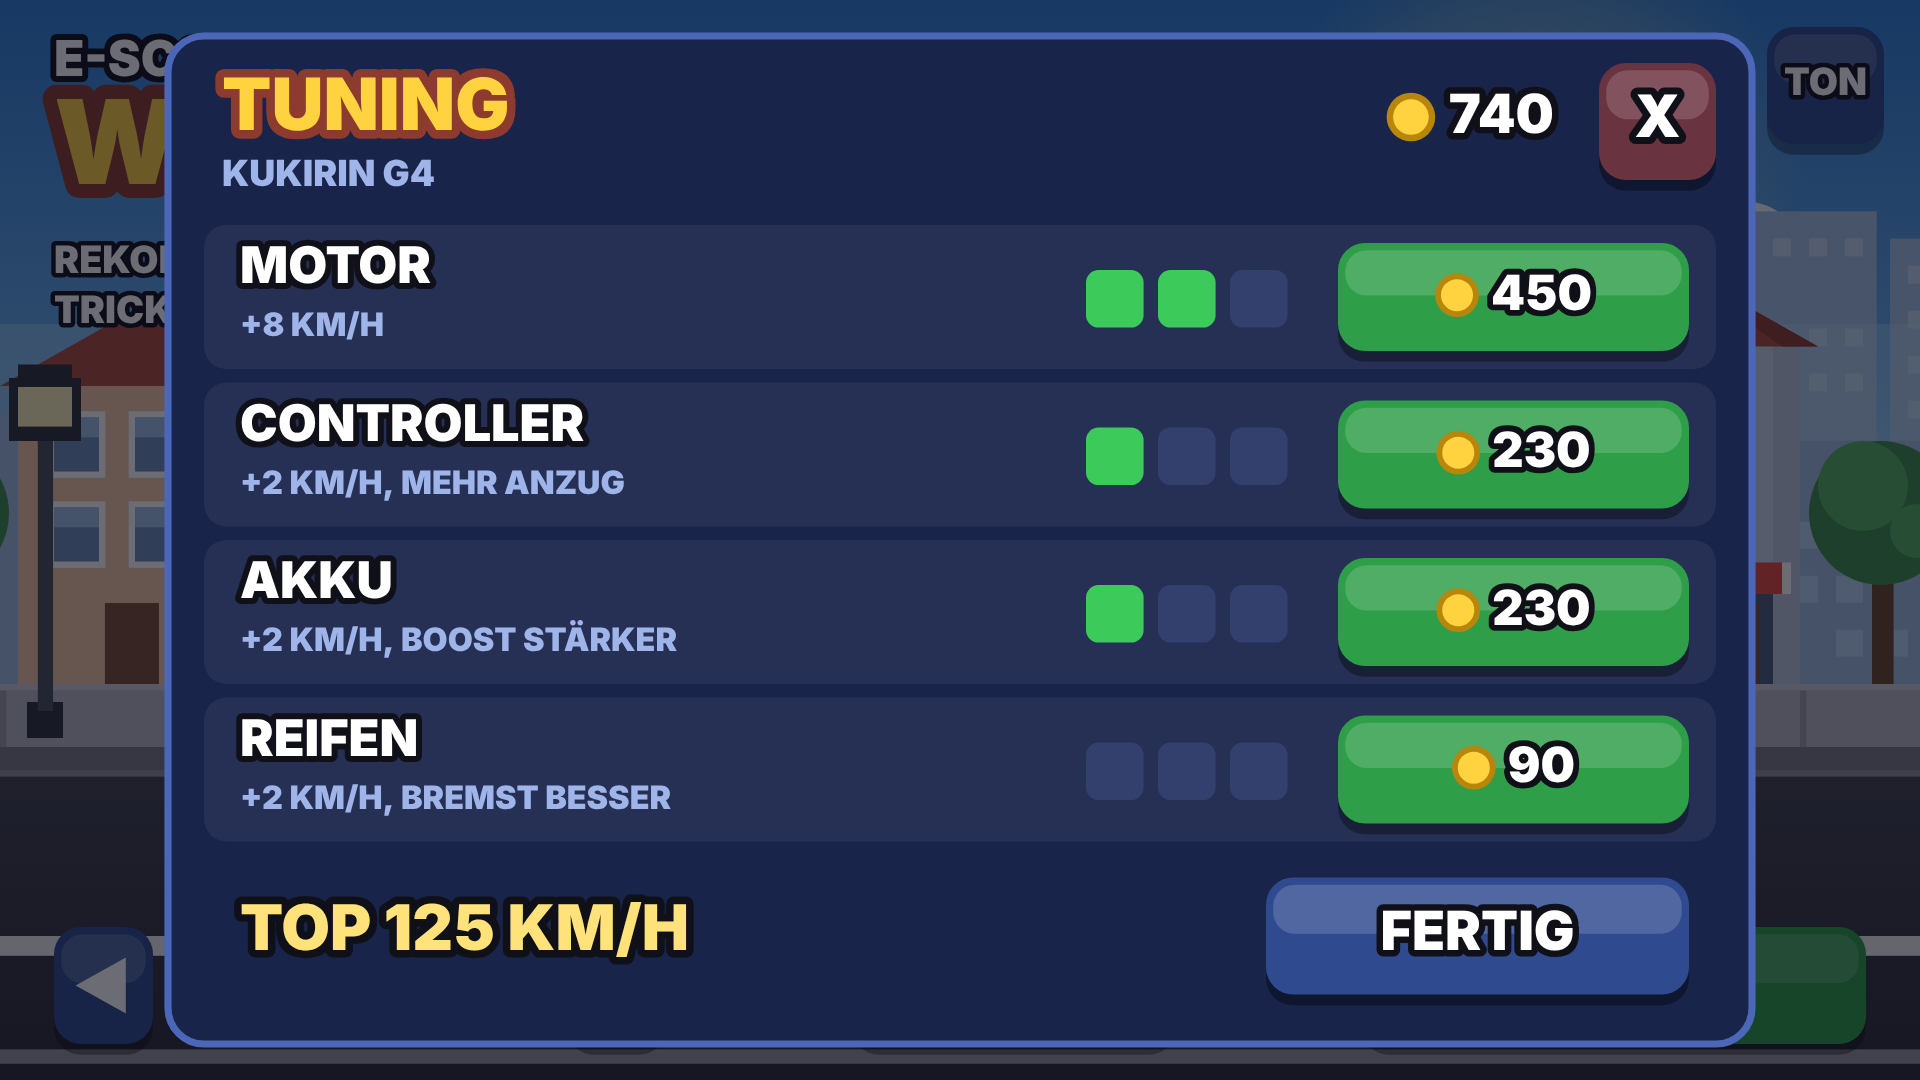
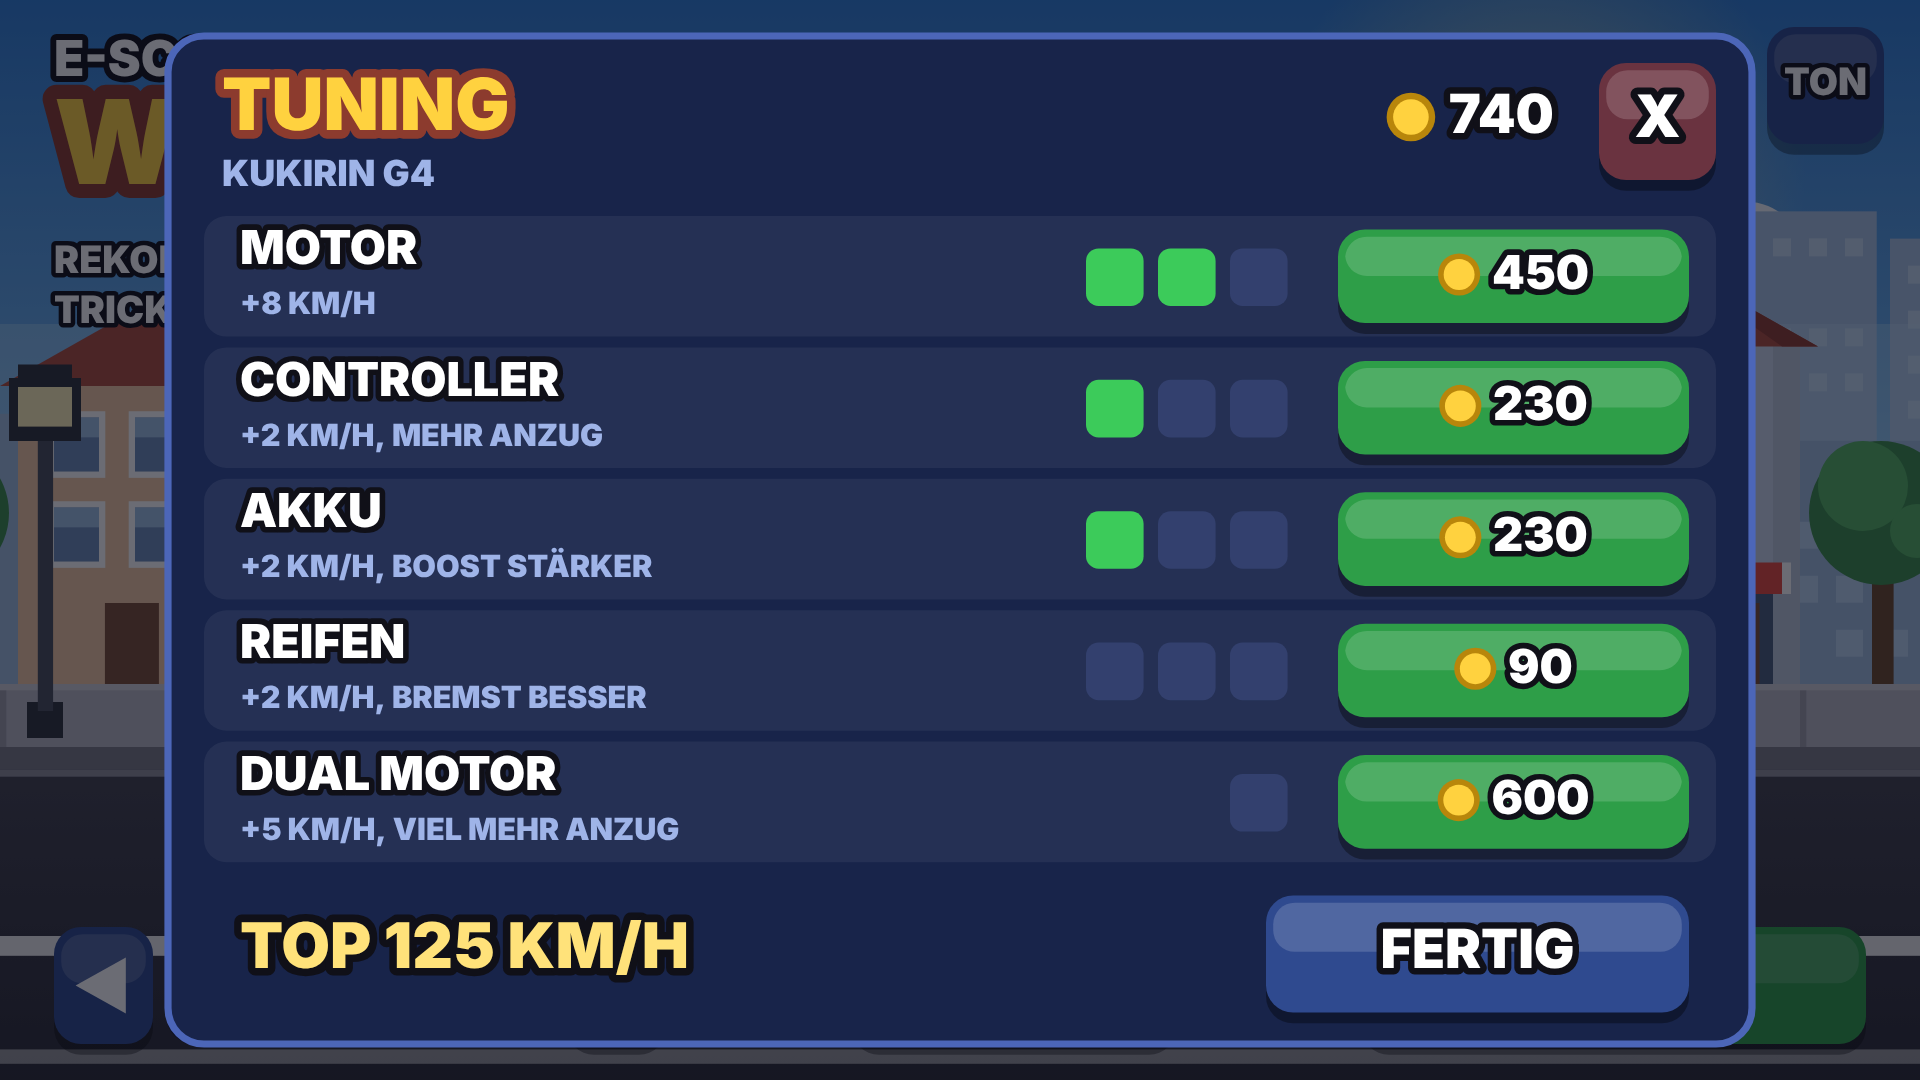
Handy-Version: Dual-Motor im Tuning, Scooter ziehen verschieden stark
- Dual-Motor als Tuning-Teil für Ninebot und Kukirin (+5 km/h, +2,5 m/s²,
  mehr Kraft bei hohem Tempo); der Dualtron hat ihn ab Werk
- Anzug ohne Tuning: Ninebot 6,0 / Kukirin 7,5 / Dualtron 10,5 m/s²
- Vorderrad zeigt den zweiten Motor

Claude-Session: https://claude.ai/code/session_01Sb8gd8WMWDHa6kn2fSYihm

Changed region(s): [[0.5625, 0.2139, 0.9062, 0.9472], [0.125, 0.1833, 0.375, 0.7944], [0.125, 0.825, 0.375, 0.9167]]

diff --git a/handy/www/game.js b/handy/www/game.js
@@ -31,20 +31,27 @@
   // SCOOTER und TUNING
   // ------------------------------------------------------------------
   // name = so heißt der Scooter im Spiel, kmh = Höchstgeschwindigkeit ohne Tuning,
-  // price = Preis in Münzen,
+  // accel = Beschleunigung beim Anfahren (m/s², das Original hat 6.0),
+  // dual = hat schon ab Werk zwei Motoren, price = Preis in Münzen,
   // gain = km/h pro Motor-Stufe, cost = Tuning-Teile sind so viel mal teurer
   const SCOOTERS = [
-    { name: 'NINEBOT MAX G3', kmh: 80, price: 0, gain: 5, cost: 1, r: 5.0, wb: 26, dy: 0, color: 0 },
-    { name: 'KUKIRIN G4', kmh: 105, price: 300, gain: 8, cost: 1.5, r: 5.6, wb: 27, dy: 0.6, color: 9 },
-    { name: 'DUALTRON X LIMITED', kmh: 125, price: 1200, gain: 12, cost: 2.5, r: 6.6, wb: 30, dy: 1.5, color: 3 },
+    { name: 'NINEBOT MAX G3', kmh: 80, accel: 6.0, dual: false, price: 0, gain: 5, cost: 1, r: 5.0, wb: 26, dy: 0, color: 0 },
+    { name: 'KUKIRIN G4', kmh: 105, accel: 7.5, dual: false, price: 300, gain: 8, cost: 1.5, r: 5.6, wb: 27, dy: 0.6, color: 9 },
+    { name: 'DUALTRON X LIMITED', kmh: 125, accel: 10.5, dual: true, price: 1200, gain: 12, cost: 2.5, r: 6.6, wb: 30, dy: 1.5, color: 3 },
   ];
   const PARTS = [
     { name: 'MOTOR', info: g => '+' + g + ' KM/H' },
     { name: 'CONTROLLER', info: () => '+2 KM/H, MEHR ANZUG' },
     { name: 'AKKU', info: () => '+2 KM/H, BOOST STÄRKER' },
     { name: 'REIFEN', info: () => '+2 KM/H, BREMST BESSER' },
+    { name: 'DUAL MOTOR', max: 1, info: () => '+5 KM/H, VIEL MEHR ANZUG' },
   ];
+  const DUAL = 4;                         // Nummer vom Dual-Motor in PARTS
+  const DUAL_PRICE = 400;                 // Preis vom zweiten Motor (mal "cost" vom Scooter)
+  const DUAL_ACCEL = 2.5;                 // so viel mehr Beschleunigung bringt er (m/s²)
+  const DUAL_POWER = 1.6;                 // und so viel mal mehr Kraft bei hohem Tempo
   const PART_LEVELS = 3;
+  const levels = k => PARTS[k].max || PART_LEVELS;
   const PART_PRICE = [60, 150, 300];      // Preis für Stufe 1, 2, 3 (mal "cost" vom Scooter)
   const COIN_PER_M = 2;                   // Münzen pro Meter Wheelie (Trick-Punkte kommen dazu)
 
@@ -112,10 +119,11 @@
       if (d.color && d.color[i] >= 0 && d.color[i] < COLORS.length) store.color[i] = floor(d.color[i]);
       PARTS.forEach((p, k) => {
         const v = d.tune && d.tune[i] && d.tune[i][k];
-        if (v >= 0 && v <= PART_LEVELS) store.tune[i][k] = floor(v);
+        if (v >= 0 && v <= levels(k)) store.tune[i][k] = floor(v);
       });
     });
   } catch (e) { /* kein Speicher: dann eben ohne */ }
+  SCOOTERS.forEach((s, i) => { if (s.dual) store.tune[i][DUAL] = 1; });   // ab Werk eingebaut
   const m = /[?&]coins=(\d+)/.exec(location.search);      // zum Testen: ?coins=5000
   if (m) store.coins = +m[1];
   function saveStore() {
@@ -126,15 +134,16 @@
   const car = { vmax: VMAX0, kmh: MAX_KMH, accel: ACCEL, power: POWER, boost: BOOST_ACCEL, brake: BRAKE };
   function topSpeed(i) {
     const t = store.tune[i];
-    return SCOOTERS[i].kmh + SCOOTERS[i].gain * t[0] + 2 * (t[1] + t[2] + t[3]);
+    return SCOOTERS[i].kmh + SCOOTERS[i].gain * t[0] + 2 * (t[1] + t[2] + t[3]) +
+      (SCOOTERS[i].dual ? 0 : 5 * t[DUAL]);
   }
   function applyTuning() {
-    const t = store.tune[store.scooter];
+    const t = store.tune[store.scooter], mdl = SCOOTERS[store.scooter];
     car.kmh = topSpeed(store.scooter);
     car.vmax = car.kmh / 3.6;
     const k = car.kmh / MAX_KMH;
-    car.power = POWER * k * k * k;        // genug Kraft, um das neue Tempo auch zu erreichen
-    car.accel = ACCEL + 0.8 * t[1];
+    car.power = POWER * k * k * k * (t[DUAL] ? DUAL_POWER : 1);   // genug Kraft für das neue Tempo
+    car.accel = mdl.accel + 0.8 * t[1] + (t[DUAL] && !mdl.dual ? DUAL_ACCEL : 0);
     car.boost = BOOST_ACCEL + 2.0 * t[2];
     car.brake = BRAKE + 1.0 * t[3];
   }
@@ -396,7 +405,7 @@
     return { S, hip, cp, sp, th, psi: th * 180 / PI * lean + A[2] + (B[2] - A[2]) * f };
   }
 
-  function wheel(p, r, rot, kind, col) {
+  function wheel(p, r, rot, kind, col, motor) {
     // kind: 0 normal, 1 Stollen (Gelände), 2 extra breit
     circ(p, r, '#17171c');
     if (kind === 1) {
@@ -416,7 +425,8 @@
       ctx.lineTo(p[0] + cos(a) * ri, p[1] + sin(a) * ri);
     }
     ctx.stroke();
-    circ(p, r * 0.2, '#17171c');
+    if (motor) { circ(p, r * 0.36, '#3a3b44'); circ(p, r * 0.27, '#17171c'); circ(p, r * 0.1, '#a8aeb6'); }
+    else circ(p, r * 0.2, '#17171c');
     ctx.strokeStyle = 'rgba(255,255,255,0.13)'; ctx.lineWidth = 0.6;     // Glanz auf dem Reifen
     ctx.beginPath(); ctx.arc(p[0], p[1], r - 0.8, -2.4, -1.2); ctx.stroke();
   }
@@ -428,13 +438,13 @@
     ctx.beginPath(); ctx.arc(p[0], p[1], r + 1.5, -(rad(a1) + th), -(rad(a0) + th)); ctx.stroke();
   }
 
-  function drawScooter(model, S, th, col, rotF, rotR) {
+  function drawScooter(model, S, th, col, rotF, rotR, dual) {
     const c = hex(col), cd = shade(col, -0.3), cl = shade(col, 0.35);
     const D = '#17171c', D2 = '#2a2b33', M = '#a8aeb6', r = model.r, wb = model.wb;
     if (model === SCOOTERS[0]) {
       // --- Ninebot Max G3: schlank, Pendler-Scooter ---
-      wheel(S(0, 0), r, rotR, 0, c);
-      wheel(S(wb, 0), r, rotF, 0, c);
+      wheel(S(0, 0), r, rotR, 0, c, true);
+      wheel(S(wb, 0), r, rotF, 0, c, dual);
       fender(S, th, 0, r, 35, 150, D2);
       circ(S(-5.4, 3.6), 0.9, '#ff3b30');                       // Rücklicht
       fender(S, th, wb, r, 40, 140, D2);
@@ -452,8 +462,8 @@
       // --- Kukirin G4: kräftig, Gelände-Reifen, Federung ---
       seg(S(0, 0), S(5, 0.2), 2.6, D2);                         // Schwinge hinten
       seg(S(wb, 0), S(22.4, 2.6), 2.6, D2);                     // Schwinge vorn
-      wheel(S(0, 0), r, rotR, 1, c);
-      wheel(S(wb, 0), r, rotF, 1, c);
+      wheel(S(0, 0), r, rotR, 1, c, true);
+      wheel(S(wb, 0), r, rotF, 1, c, dual);
       fender(S, th, 0, r, 50, 135, D);
       fender(S, th, wb, r, 45, 140, D);
       seg(S(25.4, 1.6), S(23.4, 7.6), 1.9, '#e8322b');          // Feder vorn
@@ -475,8 +485,8 @@
       // --- Dualtron X Limited: riesig, doppelte Lenkstange, fette Reifen ---
       seg(S(0, 0), S(6, 1.2), 3.6, D2);                         // Schwingen
       seg(S(wb, 0), S(23.4, 1.4), 3.6, D2);
-      wheel(S(0, 0), r, rotR, 2, c);
-      wheel(S(wb, 0), r, rotF, 2, c);
+      wheel(S(0, 0), r, rotR, 2, c, true);
+      wheel(S(wb, 0), r, rotF, 2, c, dual);
       fender(S, th, wb, r, 55, 135, D);
       seg(S(27.6, 1.6), S(24.6, 8.4), 2.2, '#ffc83d');          // Federbein vorn
       seg(S(27.6, 1.6), S(24.6, 8.4), 0.7, '#fff3b8');
@@ -568,7 +578,7 @@
     const model = o.model, g = body(o.th, o.pose, o.lean, model.dy);
     ctx.save();
     ctx.translate(x, y);
-    drawScooter(model, g.S, o.th, o.col, o.rotF, o.rotR);
+    drawScooter(model, g.S, o.th, o.col, o.rotF, o.rotR, o.dual);
     drawLeg(g, model, false);
     if (o.swing !== null) drawSwing(g.hip, o.swing); else drawLeg(g, model, true);
     const sh = drawTorso(g.hip, g.psi, o.col);
@@ -1017,11 +1027,13 @@
       play(SND_OFF);
     }
   }
-  function partPrice(i, level) { return Math.round(PART_PRICE[level] * SCOOTERS[i].cost / 10) * 10; }
+  function partPrice(i, level, k) {
+    return Math.round((k === DUAL ? DUAL_PRICE : PART_PRICE[level]) * SCOOTERS[i].cost / 10) * 10;
+  }
   function buyPart(k) {
     const i = store.scooter, lv = store.tune[i][k];
-    if (lv >= PART_LEVELS) return;
-    const p = partPrice(i, lv);
+    if (lv >= levels(k)) return;
+    const p = partPrice(i, lv, k);
     if (store.coins < p) { toast('ZU WENIG MÜNZEN'); play(SND_OFF); return; }
     store.coins -= p;
     store.tune[i][k] = lv + 1;
@@ -1124,22 +1136,23 @@
       return;
     }
     for (let k = 0; k < PARTS.length; k++) {
-      const y = py + 21 + k * 17.5, lv = store.tune[i][k], p = PARTS[k];
-      ctx.fillStyle = 'rgba(255,255,255,0.06)'; rrect(px + 4, y, pw - 8, 16, 2.5); ctx.fill();
-      text(p.name, px + 8, y + 2, 5.6, '#ffffff', 0);
-      text(p.info(mdl.gain), px + 8, y + 9.5, 3.6, '#9fb4e8', 0, false);
-      for (let s = 0; s < PART_LEVELS; s++) {             // Stufen-Anzeige
+      const y = py + 20 + k * 14.6, lv = store.tune[i][k], p = PARTS[k], n = levels(k);
+      const stock = k === DUAL && mdl.dual;
+      ctx.fillStyle = 'rgba(255,255,255,0.06)'; rrect(px + 4, y, pw - 8, 13.4, 2.5); ctx.fill();
+      text(p.name, px + 8, y + 1.2, 5.2, '#ffffff', 0);
+      text(stock ? 'HAT ER SCHON AB WERK' : p.info(mdl.gain), px + 8, y + 8.2, 3.4, '#9fb4e8', 0, false);
+      for (let s = 0; s < n; s++) {                       // Stufen-Anzeige
         ctx.fillStyle = s < lv ? '#3ccb5a' : '#33406e';
-        rrect(px + pw - 74 + s * 8, y + 5, 6.4, 6.4, 1.4); ctx.fill();
+        rrect(px + pw - 74 + (s + PART_LEVELS - n) * 8, y + 3.6, 6.4, 6.4, 1.4); ctx.fill();
       }
-      if (lv >= PART_LEVELS) {
-        button(px + pw - 46, y + 2, 39, 12, 'MAX', { off: true, size: 5.2 });
+      if (lv >= n) {
+        button(px + pw - 46, y + 1.5, 39, 10.4, stock ? 'SERIE' : k === DUAL ? 'DRIN' : 'MAX', { off: true, size: 5 });
       } else {
-        const price = partPrice(i, lv);
-        if (button(px + pw - 46, y + 2, 39, 12, '', { price, size: 5.4, color: '#2e9e48', off: store.coins < price })) buyPart(k);
+        const price = partPrice(i, lv, k);
+        if (button(px + pw - 46, y + 1.5, 39, 10.4, '', { price, size: 5.2, color: '#2e9e48', off: store.coins < price })) buyPart(k);
       }
     }
-    const y = py + 21 + PARTS.length * 17.5 + 2.5;
+    const y = py + 20 + PARTS.length * 14.6 + 2.5;
     text('TOP ' + topSpeed(i) + ' KM/H', px + 8, y + 2.5, 7, '#ffe27a', 0);
     if (button(px + pw - 54, y, 47, 13, 'FERTIG', { color: '#2f4a8f', size: 6 })) G.tuning = false;
     if (G.toast) text(G.toast, W / 2, py + ph - 9, 5, '#ff9d8f', 1);
@@ -1206,7 +1219,7 @@
     ctx.beginPath();
     ctx.ellipse(x + mdl.wb / 2 * cos(min(G.th, 1.5)) + 1, GY + 0.8, mdl.wb / 2 + mdl.r + 1 - 6 * sin(min(G.th, 1.5)), 1.5, 0, 0, 2 * PI);
     ctx.fill();
-    const o = { model: mdl, col: G.body, rotF: G.rotF, rotR: G.rotR };
+    const o = { model: mdl, col: G.body, rotF: G.rotF, rotR: G.rotR, dual: store.tune[store.scooter][DUAL] > 0 };
     if (st === CRASH) {
       const k = clamp((G.th - CRASH_RAD) / (1.745 - CRASH_RAD), 0, 1);
       o.th = G.th; o.pose = 0; o.arms = 2; o.swing = null; o.lean = LEAN + (1 - LEAN) * k;

diff --git a/handy/README.md b/handy/README.md
@@ -11,12 +11,16 @@ Scooter seine eigene.
 
 ## Was ist neu?
 
-* **3 Scooter** (Tempo ohne Tuning): Ninebot Max G3 mit 80 km/h (von Anfang an),
-  Kukirin G4 mit 105 km/h (300 Münzen) und Dualtron X Limited mit 125 km/h
-  (1200 Münzen).
+* **3 Scooter**, jeder fährt anders (Werte ohne Tuning):
+
+  | Scooter | Tempo | Anzug | Preis |
+  |---|---|---|---|
+  | Ninebot Max G3 | 80 km/h | 6,0 m/s² (wie das Original) | gratis |
+  | Kukirin G4 | 105 km/h | 7,5 m/s² | 300 Münzen |
+  | Dualtron X Limited | 125 km/h | 10,5 m/s², Dual-Motor ab Werk | 1200 Münzen |
 * **Münzen** gibt es für jeden sauber gelandeten Wheelie: 2 pro Meter plus die
   Trick-Punkte.
-* **Tuning** für jeden Scooter einzeln, 4 Teile mit je 3 Stufen:
+* **Tuning** für jeden Scooter einzeln, 4 Teile mit je 3 Stufen und der Dual-Motor:
 
   | Teil | bringt pro Stufe |
   |---|---|
@@ -24,8 +28,9 @@ Scooter seine eigene.
   | Controller | +2 km/h und mehr Anzug |
   | Akku | +2 km/h und stärkerer Boost |
   | Reifen | +2 km/h und bessere Bremse |
+  | Dual-Motor (einmal) | +5 km/h und viel mehr Anzug (+2,5 m/s²). Der Dualtron hat ihn schon. |
 
-  Voll getunt: Ninebot 113 km/h, Kukirin 147 km/h, Dualtron 179 km/h.
+  Voll getunt: Ninebot 118 km/h, Kukirin 152 km/h, Dualtron 179 km/h.
 * **12 Farben** pro Scooter (auch Regenbogen), der Helm bekommt die gleiche Farbe.
 * **Bessere Grafik:** alles wird scharf in der Auflösung vom Handy gezeichnet,
   der Hintergrund bewegt sich in mehreren Ebenen (Wolken, Hochhäuser, Häuser,
